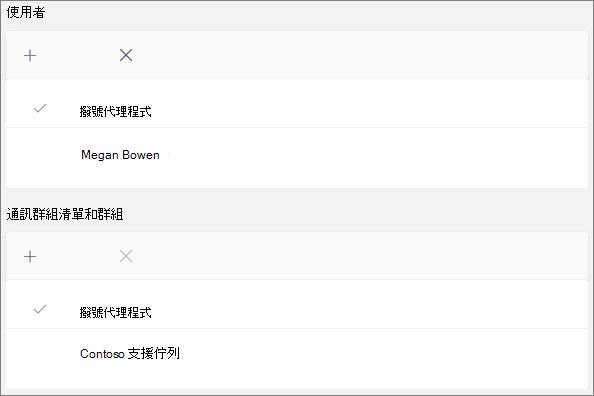
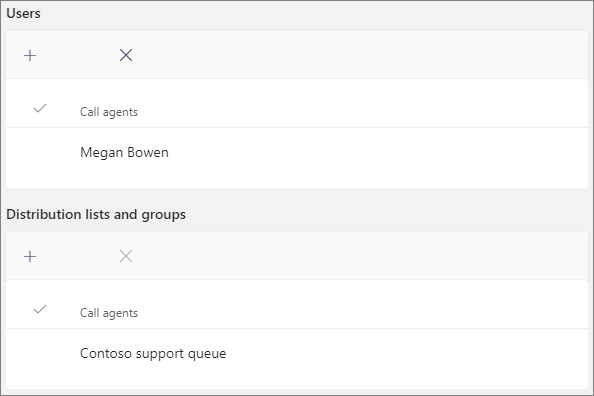
commit translated contents

diff --git a/Teams/manage-tasks-app.md b/Teams/manage-tasks-app.md
@@ -1,5 +1,5 @@
 ---
-title: 在 Microsoft 團隊中管理貴組織的任務應用程式
+title: 在 Microsoft Teams 中管理貴組織的 [工作] 應用程式
 author: cichur
 ms.author: v-cichur
 manager: serdars
@@ -11,7 +11,7 @@ searchScope:
 - Microsoft Teams
 - Microsoft Cloud for Healthcare
 audience: admin
-description: 瞭解如何管理組織中使用者的 [工作] app。
+description: 瞭解如何管理貴組織中使用者的 [工作] 應用程式。
 localization_priority: Normal
 MS.collection:
 - Teams_ITAdmin_Help
@@ -21,107 +21,107 @@ appliesto:
 - Microsoft Teams
 ms.openlocfilehash: 2cc477b9589aeebb8dcd486e7f85ca04daf6ff4d
 ms.sourcegitcommit: fdef9b52247097e5cae64f01b6b2b710c5b203cf
-ms.translationtype: MT
+ms.translationtype: HT
 ms.contentlocale: zh-TW
 ms.lasthandoff: 01/20/2021
 ms.locfileid: "49909397"
 ---
-# <a name="manage-the-tasks-app-for-your-organization-in-microsoft-teams"></a>在 Microsoft 團隊中管理貴組織的任務應用程式
+# <a name="manage-the-tasks-app-for-your-organization-in-microsoft-teams"></a>在 Microsoft Teams 中管理貴組織的 [工作] 應用程式
 
-## <a name="overview-of-tasks"></a>任務概覽
+## <a name="overview-of-tasks"></a>[工作] 概觀
 
-[工作] app 為 Microsoft 團隊帶來了一種內聚性的工作管理體驗，整合了由 [microsoft](https://todo.microsoft.com/tasks/) 提供的個別工作，以及由 Planner 提供的小組工作，集中在一個位置。 使用者可以將工作作為小組左邊的 app 存取，以及在個別團隊的頻道中作為索引標籤。 [工作] 中的 [**我** 的工作] 和 [**共用方案**] 可讓使用者查看及管理其個別及小組工作，並設定其工作優先順序。 在團隊桌面、web 和行動用戶端中都有可用的工作。 
+[工作] 應用程式為 Microsoft Teams 帶來了凝聚性的工作管理體驗，將 [Microsoft To Do](https://todo.microsoft.com/tasks/) 所啟動的個別工作以及 Planner 所啟動的小組工作整合在一個地方。 使用者可以在 Teams 左側存取 [工作] 應用程式，以及在個別小組中的頻道以索引標籤的形式存取。 **我的工作** 和 [工作] 中的 **共用計畫** 可讓使用者查看及管理他們所有的個人和小組工作，並設定工作的優先處理順序。 [工作] 應用程式可在 Teams 的桌面版、Web 和行動用戶端使用。 
 
 > [!NOTE]
-> 當我們在團隊桌面用戶端上推出工作體驗時，應用程式名稱最初會以 **Planner** 顯示給使用者。 然後，該名稱會暫時變更為工作（ **依 Planner 及待辦事項**），稍後再將其重新命名為 [ **任務**]。 在團隊行動用戶端上，使用者將永遠會看到應用程式名稱做為 [ **任務**]。 在桌面體驗推出後，行動體驗的可用性可能會有短暫的延遲。
+> 當我們推出 Teams 桌面版用戶端的 [工作] 體驗時，最初向使用者顯示的應用程式名稱為 **Planner**。 然後，會暫時變更為 **Planner 的工作和待辦事項**，之後再將其重新命名為 **工作**。 在 Teams 行動用戶端，使用者將會看到應用程式名稱一直都顯示為 **工作**。 有可用的桌面體驗之後，可能會有短暫的延遲之後才會有行動裝置體驗。
 
-   ![[團隊] 清單上工作清單視圖的螢幕擷取畫面](media/manage-tasks-app-tasks.png)
+   ![Teams 清單的工作清單視圖的螢幕擷取畫面](media/manage-tasks-app-tasks.png)
 
-針對想要簡化第一線工人工作管理的組織而言，工作也包含可讓您以不同的第一線員工的規模進行設定、發佈及追蹤任務的功能。 例如，公司和地區性領導可以建立併發布針對相關位置（例如特定零售商店）的工作清單，以及透過即時報告追蹤進度。 管理員可以將工作指派給其員工，並直接在其位置內進行活動，而第一線工作者在行動或桌面上會有其已指派任務的優先順序清單。 若要啟用 [ [任務發佈](#task-publishing)]，您必須先設定組織的小組目標階層，以定義階層中所有團隊之間相互關聯的方式。
+對於想要簡化第一線工作者工作管理的組織，[工作] 還包含可讓您在第一線員工間進行大規模鎖定、發佈及追蹤工作的功能。 例如，公司和地區性領導階層可建立並發佈針對相關地點 (例如特定零售商店) 的工作清單，並透過即時報告追蹤進度。 經理人可將工作指派給他們的員工，並指揮在其地點中的活動，而第一線工作者在行動裝置或桌上型電腦中有其指派工作的優先順序清單。 若要啟用 [工作發佈](#task-publishing)，您必須先設定組織的小組目標階層，以定義階層中所有小組間的關聯方式。
 
-## <a name="what-you-need-to-know-about-tasks"></a>任務所需注意的事項
+## <a name="what-you-need-to-know-about-tasks"></a>有關 [工作] 必須知道的事項
 
-[工作] 可做為應用程式和頻道中的索引標籤。 請記住，應用程式是由 Planner 中的任務和小組任務組成，而 tab 只會顯示小組工作。
+[工作] 能以應用程式和頻道中的索引標籤的形式供使用。 請記住，應用程式包含來自 Planner 待辦事項和小組工作的個別工作，而索引標籤只會顯示小組工作。
 
-在工作中，使用者可以取得桌面、網站和行動裝置體驗。 如果工作是在小組桌面用戶端上安裝，使用者也會在他們的小組網頁和行動用戶端上看到它。 例外狀況為來賓使用者。 請務必知道，來賓只能從小組行動用戶端存取任務作為 app。 來賓會在兩個小組的桌面和 web 用戶端上看到 [任務] 索引標籤。
+使用者可在桌上型電腦、Web 和行動裝置上使用 [工作]。 如果在 Teams 桌面版用戶端安裝 [工作]，使用者也會在其 Teams 的 Web 和行動用戶端上看到。 訪客使用者是例外。 請務必瞭解，訪客只能從 Teams 行動用戶端存取 [工作] 應用程式。 訪客將在 Teams 的桌面版和 Web 用戶端上看到 [工作] 索引標籤。
 
-[**我** 的工作] 會顯示使用者的個別工作。 [**共用方案**] 會顯示整個小組正在處理的工作，並包含任何以 [任務] 索引標籤新增為頻道的工作清單。 請注意下列事項：
+**我的工作** 會顯示使用者的個別工作。 **共用計畫** 會示整個小組正在處理的工作，並包含任何以 [工作] 索引標籤的方式新增至頻道的工作清單。 注意下列事項：
 
-- 使用者在 [工作] 應用程式中建立的工作清單也會顯示在 [為該使用者執行用戶端]。 同樣地，使用者在工作中建立的工作清單會顯示在該使用者的 [工作]**工作中。** 個別工作也是如此。
+- 使用者在 [工作] 應用程式中建立的工作清單也會顯示在該使用者的待辦事項用戶端。 同樣地，使用者在待辦事項中建立的工作清單將會顯示在該使用者的 [工作] 中的 **我的工作**。 這同樣適用於個別工作。
 
-- 新增至頻道的任何 [任務] 索引標籤也會出現在 Planner 用戶端中。 當使用者在 Planner 中建立計畫時，除非將 [工作] 或 [Planner] 應用程式新增為頻道的索引標籤，否則方案將不會顯示。 當使用者新增 [任務] 索引標籤時，他們可以建立新的清單或方案，或選擇現有的清單或方案。
+- 新增至頻道的任何 [工作] 索引標籤也會顯示在 Planner 用戶端中。 使用者在 Planner 中建立計畫時，計畫將不會顯示在 [工作] 或 [Planner] 應用程式中，除非該計畫已新增為頻道的索引標籤。 使用者新增 [工作] 索引標籤時，可以建立新的清單或計畫，或選擇現有的清單或計畫。
 
-## <a name="set-up-tasks"></a>設定任務
+## <a name="set-up-tasks"></a>設定 [工作]
 
 > [!IMPORTANT]
-> 您針對 Planner 所設定的設定與原則也會套用至 [任務]。
+> 您為 Planner 配置的設定和原則也將適用於 [工作]。
 
-### <a name="enable-or-disable-tasks-in-your-organization"></a>啟用或停用組織中的任務
+### <a name="enable-or-disable-tasks-in-your-organization"></a>啟用或停用組織中的 [工作]
 
-預設會針對貴組織中的所有團隊使用者啟用 [任務]。 您可以在 Microsoft 團隊系統管理中心的 [ [管理應用程式](manage-apps.md) ] 頁面上關閉或開啟組織階層的 app。
+您的組織中的所有 Teams 使用者預設會啟用 [工作]。 您可以在 Microsoft Teams 系統管理中心的[管理應用程式](manage-apps.md)頁面上關閉或開啟組織層級的應用程式。
 
-1. 在 Microsoft 團隊系統管理中心的左導覽中，移至 [**團隊 app**  >  **管理應用程式**]。
-2. 在應用程式清單中，執行下列其中一項操作：
+1. 在 Microsoft Teams 系統管理中心的左側瀏覽窗格中，移至 **Teams 應用程式** > **管理應用程式**。
+2. 在應用程式清單中，執行下列其中一項：
 
-    - 若要關閉貴組織的工作，請搜尋 [任務] app，選取該應用程式，然後按一下 [ **封鎖**]。
-    - 若要開啟貴組織的工作，請搜尋 [任務] app，選取該應用程式，然後按一下 [ **允許**]。
+    - 若要關閉貴組織的 [工作]，請搜尋 [工作] 應用程式，加以選取，然後按一下 **封鎖**。
+    - 若要開啟貴組織的 [工作]，請搜尋 [工作] 應用程式，加以選取，然後按一下 **允許**。
 
 > [!NOTE]
-> 如果您找不到 [任務] app，請在本文的第一張筆記中搜尋名稱。 App 可能仍在重新命名的程式中。
+> 如果您找不到 [工作] 應用程式，請在本文的第一個記事中搜尋名稱。 此應用程式仍處於重新命名的程序中。
 
-### <a name="enable-or-disable-tasks-for-specific-users-in-your-organization"></a>針對貴組織中的特定使用者啟用或停用工作
+### <a name="enable-or-disable-tasks-for-specific-users-in-your-organization"></a>啟用或停用組織中特定使用者的 [工作]
 
-若要允許或封鎖貴組織中的特定使用者使用工作，請確定您的組織已開啟 [ [管理應用程式](manage-apps.md) ] 頁面上的工作，然後建立自訂應用程式許可權原則，並將其指派給那些使用者。 若要深入瞭解，請參閱 [在團隊中管理 app 許可權原則](teams-app-permission-policies.md)。
+若要允許或封鎖貴組織中的特定使用者使用 [工作]，請確定您的組織在[管理應用程式](manage-apps.md)頁面上已開啟 [工作]，然後建立自訂應用程式權限原則，並將其指派給這些使用者。 若要深入了解，請參閱[管理 Teams 中的應用程式權限原則](teams-app-permission-policies.md)。
 
-### <a name="use-an-app-setup-policy-to-pin-tasks-to-teams"></a>使用應用程式設定原則將任務釘選到團隊
+### <a name="use-an-app-setup-policy-to-pin-tasks-to-teams"></a>使用應用程式設定原則將工作釘選到 Teams
 
-App 設定原則可讓您自訂小組，以醒目提示貴組織中的使用者最重要的 app。 您在原則中設定的應用程式會釘選在小組桌面用戶端的 [應用程式行] &mdash; 側邊，以及小組行動用戶端的最下方， &mdash; 使用者可以快速且輕鬆地存取。
+應用程式設定原則可讓您自訂 Teams，以醒目提示對貴組織中的使用者最重要的應用程式。 您在原則中設定的應用程式會釘選到應用程式列&mdash;位於 Teams 桌面版用戶端側邊列，以及位於 Teams 行動版用戶端底部&mdash;，可讓使用者快速且輕鬆地存取。
 
-若要為使用者釘選 [工作] 應用程式，您可以編輯全域 (組織範圍的預設) 原則，或建立並指派自訂應用程式設定原則。 若要深入瞭解，請參閱 [管理團隊中的 app 設定原則](teams-app-setup-policies.md)。
+若要為您的使用者釘選 [工作] 應用程式，您可以編輯全域 (全組織預設值) 原則，或建立並指定自訂應用程式設定原則。 若要深入了解，請參閱[管理 Teams 中的應用程式設定原則](teams-app-setup-policies.md)。
 
-### <a name="a-users-my-tasks-is-visible-if-the-user-is-licensed-for-exchange-online"></a>如果使用者已獲得 Exchange Online 授權，就會看到使用者的 [我的工作]
+### <a name="a-users-my-tasks-is-visible-if-the-user-is-licensed-for-exchange-online"></a>如果使用者已取得 Exchange Online 授權，則會顯示使用者的 [我的工作]
 
-如果您不希望使用者看到 **我** 的工作，您可以將其隱藏。 若要這樣做，請 [移除使用者的 Exchange Online 授權](https://docs.microsoft.com/microsoft-365/admin/manage/remove-licenses-from-users)。 請務必注意，在移除 Exchange Online 授權之後，該使用者就無法再存取其信箱了。  信箱資料會保留30天，之後將會移除資料，且無法復原，除非信箱放 [在適當位置或訴訟封存中](https://docs.microsoft.com/exchange/security-and-compliance/in-place-and-litigation-holds)。
+如果您不希望使用者看到 **我的工作**，可將其隱藏。 若要這麼做，請[移除使用者的 Exchange Online 授權](https://docs.microsoft.com/microsoft-365/admin/manage/remove-licenses-from-users)。 請務必瞭解，在移除 Exchange Online 授權之後，該使用者將無法再存取其信箱。  信箱資料會保留 30 天，之後資料將被移除且無法復原，除非信箱位於[就地保留或訴訟封存](https://docs.microsoft.com/exchange/security-and-compliance/in-place-and-litigation-holds)。
 
-我們建議您不要對資訊工作者進行此操作，但在某些情況下可能會套用這種情況，例如針對不依賴電子郵件的第一線工作人員。
+我們不會建議資訊工作者使用這種方式，但可能會發生可套用這種方式的情況，例如不依賴電子郵件的第一線工作者。
 
-## <a name="task-publishing"></a>任務發佈
+## <a name="task-publishing"></a>發佈
 
-透過 [任務發佈]，您的組織可以發佈針對特定位置的工作清單， (團隊在您的組織中) ，以定義並共用工作方案，以便在這些位置完成。
+使用 [工作發佈]，您的組織可以發佈針對組織內部特定地點 (小組) 的工作清單，以定義及共用將在這些地點完成的工作計畫。
 
-- 發佈小組中的人員（例如公司或地區性領導）可以建立工作清單，並將其發佈至特定團隊。<br>
-    ![[任務發佈] 的螢幕擷取畫面](media/manage-tasks-app-publish.png)
-- 收件者小組的管理員可以查看已發佈的工作清單，並將個別任務指派給小組成員。<br>
-    ![指派任務的螢幕擷取畫面](media/manage-tasks-app-assign.png)
-- 第一線工人有簡單的行動體驗，可查看指派給他們的工作。 他們可以附加相片，在適當時顯示其工作，並將其任務標示為已完成。
-- [發行者與管理員] 可以查看報表，以查看每個階層的工作作業及完成狀態，包括依位置 (的小組) 、工作清單及個別任務。<br>
-    ![行動裝置上指派任務的螢幕擷取畫面](media/manage-tasks-app-reporting.png)
+- 發佈小組中的人員 (例如公司或地區性領導階層) 可建立工作清單，並將其發佈給特定小組。<br>
+    ![ [工作發佈] 的螢幕擷取畫面](media/manage-tasks-app-publish.png)
+- 收件者小組的主管可查看發佈的工作清單，並將個別的工作指派給小組成員。<br>
+    ![指派工作的螢幕擷取畫面](media/manage-tasks-app-assign.png)
+- 第一線工作者可輕鬆透過行動裝置查看指派給他們的工作。 他們可以附加相片以顯示工作 (如適用)，並將其工作標示為已完成。
+- 出版商和管理者可以查看報告，以瞭解每個階層的工作指派和完成狀態，包括依地點 (小組)、工作清單和個別工作。<br>
+    ![行動裝置上指派工作的螢幕擷取畫面](media/manage-tasks-app-reporting.png)
 
-使用者在 [工作] app 的 [ **已發佈的清單** ] 索引標籤上建立、管理及發佈工作清單。 只有在您的組織 [設定團隊目標](#set-up-your-team-targeting-hierarchy) 階層，且使用者位於包含在階層中的小組時，此索引標籤才會向使用者顯示。 階層決定使用者是否可以發佈或接收工作清單，以及查看已接收清單的報表。
+使用者會在 [工作] 應用程式中的 **發佈清單** 索引標籤上建立、管理及發佈工作清單。 只有在貴組織[設定小組目標階層](#set-up-your-team-targeting-hierarchy)且使用者屬於階層所包含的小組時，才會顯示該索引標籤。 階層會決定使用者是否可以發佈或接收工作清單，以及查看已收到清單的報告。
 
 ### <a name="example-scenario"></a>範例案例
 
-以下是如何進行工作發佈的範例。
+以下是工作發佈方式的範例。
 
-Contoso 正在推出新的食物 takeout 和遞送促銷。 若要維持一致的品牌體驗，他們必須在超過300的存放位置，協調推出一致的方式執行。
+Contoso 即將推出新的食物外帶和遞送優惠。 若要維持一致的品牌體驗，他們必須在超過 300 個商店地點協調執行一致性的推出方式。
 
-行銷小組與零售通訊管理員共用促銷明細及對應的工作清單。 零售通訊管理員（可充當商店的閘道管理員）會審閱資訊、建立促銷的工作清單，然後針對每個需要由每個受影響的儲存區執行的工作單元建立任務。 完成工作清單後，她必須選取必須完成工作的商店。 在這種情況下，促銷只適用于美國擁有店內餐館的商店。 在 [工作] 中，她會根據 [儲存在店內餐館] 屬性來篩選商店清單，選取階層中的 [符合美國] 位置，然後將工作清單發佈至這些商店。
+行銷小組會和零售通訊經理分享促銷的詳細資料以及對應的工作清單。 擔負守門員功能的零售通訊經理 會審閱資訊、為促銷建立工作清單，然後針對每個受到影響的商店需要執行的每個工作單元建立工作。 工作清單完成後，需要選取必須完成工作的商店。 在此情況下，優惠僅適用於在美國擁有店內餐廳的商店。 在 [工作] 中，她會根據 [店內餐廳] 屬性來篩選商店清單，在階層中選取 [與美國匹配] 的地點，然後將工作清單發佈到這些商店。
 
-每個位置的商店管理員都會收到已發佈任務的複本，並將這些工作指派給他們的小組成員。 管理員可以使用 [任務經驗] 來瞭解其商店所需的所有工作。 他們也可以使用可用的篩選器，將焦點放在特定的工作集合上，例如 [今天到期的工作] 或特定區域中的工作。
+每個地點的商店經理都會收到一份已發佈工作的複本，並將這些工作指派給小組成員。 經理可以使用 [工作] 體驗來瞭解其商店必須完成的所有工作。 他們也可以使用可用的篩選，專注於一組特定的工作，例如 [今天必須完成的工作] 或 [特定區域的工作]。
 
-在每個市集中位置的第一線工作者現在會在行動裝置上的工作中有一個優先順序清單。 完成工作後，他們會將它標示為完成。 有些人甚至可能會選擇將相片上傳並附加至工作，以顯示他們的工作。
+每個商店地點的第一線工作者在其行動裝置上的 [工作] 中現在有一份按優先順序排列的工作。 工作完成時，會將工作標示為完成。 有些甚至可以選擇上傳相片，並將相片附加至工作，以顯示他們的工作。
 
-Contoso 總部和中級經理可以查看報告，以查看每個商店及跨商店的工作作業與完成狀態。 他們也可以向下切入特定任務，以查看不同商店中的狀態。 隨著啟動日期更接近，他們可以隨時找出任何 abnormalities，並視需要查看其小組。 此可見度可讓 Contoso 改善推出的效率，並在其商店中提供更一致的體驗。
+Contoso 總部和中級經理可以查看報告，以瞭解每個商店和商店之間工作的指派和完成狀態。 他們也可以深入特定工作，以瞭解不同商店內的狀態。 隨著啟動日期逐漸逼近，他們可以發現任何異常狀況，如有需要可與其小組商討。 這種可視性可讓 Contoso 提高推出效率，並提供商店之間更一致性的體驗。
 
 ### <a name="set-up-your-team-targeting-hierarchy"></a>設定您的團隊目標階層
 
-若要在貴組織中啟用任務發佈，您必須先設定您的團隊目標架構。CSV 檔案。 架構定義階層中的所有團隊如何彼此關聯，以及用來篩選和選取團隊的屬性。 建立架構之後，請將其上傳至團隊，將其套用到您的組織。 發佈小組的成員（例如範例案例中的零售通訊管理員），可以根據階層、屬性或兩者的組合來篩選小組，以選取應收到工作清單的相關小組，然後將工作清單發佈至這些小組。
+若要在貴組織中啟用工作發佈，您必須先以 .CSV 檔設定您的小組目標架構。 此架構可定義您的階層中所有小組彼此關聯的方式，以及用來篩選和選取小組的屬性。 建立架構之後，可將其上傳至 Teams，並套用到您的組織。 發佈小組的成員 (例如範例案例中的 [零售通訊經理]) 可依據階層、屬性或兩者的組合來篩選小組，以選取應接收工作清單的相關小組，然後將工作清單發佈給那些小組。
 
-如需如何設定您的團隊目標階層的步驟，請參閱 [設定您的團隊目標](set-up-your-team-hierarchy.md)階層。
+如需有關如何設定您的小組目標階層的步驟，請參閱 [設定您的小組目標階層](set-up-your-team-hierarchy.md)。
 
-## <a name="power-automate-and-graph-api"></a>電源自動化及圖形 API
+## <a name="power-automate-and-graph-api"></a>Power Automate 和圖形 API
 
-[工作] 可支援 Planner 的電源自動作業及圖形 Api。 若要深入了解，請參閱：
+[工作] 可支援待辦事項的 Power Automate 以及 Planner 的圖形 API。 若要深入了解，請參閱：
 
-- [Planner 工作與計畫 API 概覽](https://docs.microsoft.com/graph/planner-concept-overview)
-- [使用 Microsoft 與電源自動進行](https://support.office.com/article/using-microsoft-to-do-with-power-automate-526e8f75-217b-46e0-9e06-44780b72c295)
+- [Planner 工作和計畫 API 概觀](https://docs.microsoft.com/graph/planner-concept-overview)
+- [透過 Power Automate 使用 Microsoft To Do](https://support.office.com/article/using-microsoft-to-do-with-power-automate-526e8f75-217b-46e0-9e06-44780b72c295)

diff --git a/Teams/manage-lists-app.md b/Teams/manage-lists-app.md
@@ -1,5 +1,5 @@
 ---
-title: 管理貴組織的清單應用程式
+title: 管理貴組織的 [清單] 應用程式
 author: cichur
 ms.author: v-cichur
 ms.reviewer: anach,v-jasuk
@@ -11,7 +11,7 @@ search.appverid: MET150
 searchScope:
 - Microsoft Teams
 - Microsoft Cloud for Healthcare
-description: 瞭解如何針對貴組織中的使用者管理團隊中的 [清單] 應用程式。
+description: 瞭解如何針對貴組織中的使用者管理 Teams 中的 [清單] 應用程式。
 f1.keywords:
 - NOCSH
 localization_priority: Normal
@@ -24,101 +24,101 @@ appliesto:
 ms.custom: ''
 ms.openlocfilehash: e0fb125ede9300395e045a0c5640abd075547562
 ms.sourcegitcommit: 04eba352d9e203aa9cd1282c4f4c7158a0469678
-ms.translationtype: MT
+ms.translationtype: HT
 ms.contentlocale: zh-TW
 ms.lasthandoff: 01/23/2021
 ms.locfileid: "49944608"
 ---
-# <a name="manage-the-lists-app-for-your-organization-in-microsoft-teams"></a>在 Microsoft 團隊中管理貴組織的清單應用程式
+# <a name="manage-the-lists-app-for-your-organization-in-microsoft-teams"></a>在 Microsoft Teams 中管理貴組織的 [清單] 應用程式
 
-## <a name="overview-of-lists"></a>清單概覽
+## <a name="overview-of-lists"></a>[清單] 概觀
 
-Microsoft 團隊中的 [清單] 應用程式可協助組織中的使用者追蹤資訊、組織工作，以及管理工作流程。 使用者可以使用清單來追蹤問題、資產、常式、連絡人、庫存、事件、貸款、患者等資料，並使用可自訂的視圖、規則和通知來保持小組中的每個人都保持同步。
+Microsoft Teams 中的 [清單] 應用程式可協助您的組織中的使用者追蹤資訊、整理工作及管理工作流程。 使用 [清單]，使用者可以使用可自訂的視圖、規則和警示來追蹤相關資料，例如問題、資產、例行會議、連絡人、庫存、事件、貸款、病人等，以保持團隊中的每個人同步。
 
-在團隊中，使用者會將清單作為頻道中的索引標籤存取。 按一下 **+** 以開啟索引標籤圖庫，然後新增 [清單] 應用程式索引標籤實例至頻道，即可開始使用。
+在 Teams 中，使用者將 [清單] 視為頻道中的索引標籤加以存取。 按一下 **+** 以開啟索引標籤庫，並將新 [清單] 應用程式索引標籤實例新增至頻道，以開始使用。
 
 ![索引標籤庫中的 [清單] 應用程式](media/lists-tab.png)
 
-使用者可以從相同團隊或其他人有權存取的 SharePoint 網站建立新清單或釘選現有清單。 您可以從內建的範本、根據現有清單的結構或從 Excel 活頁簿匯入資料，從頭開始建立新的清單。 [清單] app 可在小組桌面、web 和行動用戶端中取得。
+使用者可以建立新清單，或從同一小組內或他們有存取權的不同 SharePoint 網站釘選現有清單。 可根據現有清單的結構，或從 Excel 活頁簿匯入資料，以從頭、從內建範本來建立新清單。 [清單] 應用程式可在 Teams 的桌上型電腦、Web 和行動用戶端使用。
 
 ![如何在 [清單] 應用程式中建立清單](media/lists-create-list.png)
 
-## <a name="templates"></a>模版
+## <a name="templates"></a>範本
 
-清單中的範本是針對使用者的常見資訊追蹤案例量身定制的。 每個範本都有一個預先定義的清單結構、表單版面配置及格式設定選項（在 [清單] 視圖和 [詳細資料] 視圖層級）中，以協助使用者快速入門。 選取範本之後，使用者就會預覽清單的外觀，以及一些範例資料。 以下範例說明貴組織中的小組如何在清單中使用預先定義的範本：
+[清單] 中的範本是針對使用者的常見資訊追蹤案例而量身打造的。 每個範本都有一組預先定義的清單結構、表單版面配置和格式設定選項 (清單視圖和詳細資料視圖層級)，可協助使用者快速開始使用。 選取範本之後，使用者會看到清單外觀的預覽，以及一些範例資料。 下列範例說明貴組織中的小組可如何使用 [清單] 中預先定義的範本：
 
-- 使用 [問題追蹤器] 範本追蹤問題並讓他們關閉。
-- 使用 [事件路線] 範本來整理您的所有活動詳細資料。
-- 使用患者範本，在您的醫療保健組織中記錄患者在健康小組中的需求和狀態，以監控及協調護理。
-- 使用貸款範本追蹤貸款申請的狀態。
+- 使用 [問題追蹤器] 範本來追蹤問題並直到解決問題。
+- 使用 [活動時間表] 範本來整理您所有的活動詳細資料。
+- 您可以使用病人範本來記錄患者的需求和狀態，以便讓醫療保健組織中的健康小組監視和協調照護。
+- 使用貸款範本來追蹤貸款申請的狀態。
 
 ## <a name="example-scenario"></a>範例案例
 
-當地的郵局負責在他們的地區中排序並傳送郵件。 每早上，郵局都有一個小組 huddle 來審查日常目標、共用公告，並討論已知的事件。
+本地郵局負責在其地區中排序和傳送郵件。 每天早上，郵局都會有小組聚會來檢閱每日目標、分享公告，並討論已知的事件。
 
-Huddle 之後，郵件載體會拾取其郵件，並開始傳送傳送路線。 事件可能會沿著路線進行，例如交通意外、狗相關的問題，或社交 unrest 拒付。 當郵件運營商遇到事件時，他們會在行動裝置上使用團隊來記錄事件詳細資料，並在團隊頻道清單中追蹤這些活動。 小組中的每個人（包括欄位中的郵件載體）都可以看到這項資訊並保持及時瞭解。
+聚會之後，郵件運送人就會撿拾自己的郵件並啟動其遞送路線。 在遞送路線中可能會發生事件，例如車輛事故、狗相關的問題或社會動亂的抗議。 當郵件運送人遇到事件時，他們會利用其行動裝置上的 Teams 來記錄事件詳細資料，並透過小組頻道的清單追蹤。 小組中的每個人 (包括在外面的郵件運送人) 都能看到這項資訊並取得最新訊息。
 
-在移至團隊之前，郵件運營商必須回到郵局，才能完成硬拷貝表單，以報告在 Excel 試算表中輸入的事件。 團隊首先為郵件運營商提供行動裝置，讓他們可以在其中使用清單來報告其在欄位中的事件、與小組成員共用事件詳細資料、在頻道中取得相關的交談，以及將事件放到解決方案中。
+移至 Teams 之前，郵件運送人必須回到郵局，完成紙本表單，以報告在 Excel 試算表中輸入的事件。 Teams 先提供郵件運送人一個行動裝置，讓他們體會可以在何處使用 [清單] 來報告實地發生的事件、與小組成員分享事件詳細資料、在頻道中進行討論以及取得問題的解決方法。
 
-## <a name="what-you-need-to-know-about-lists"></a>清單所需注意的事項
+## <a name="what-you-need-to-know-about-lists"></a>必須知道的有關 [清單] 的事情
 
-### <a name="lists-is-available-in-every-team-and-channel"></a>清單在每個團隊和頻道中都有提供
+### <a name="lists-is-available-in-every-team-and-channel"></a>在每個小組和頻道中都可取得 [清單]
 
-清單是針對所有團隊使用者預先安裝的，可直接在每個團隊和頻道的索引標籤庫中取得。 這表示使用者不需要移至 [小組 app store] 就能安裝它。
+所有 Teams 使用者都會有預先安裝的 [清單]，且可直接在每個小組和頻道的索引標籤庫中取得。 這表示使用者不需要移至 Teams 應用程式市集就能安裝。
 
-### <a name="lists-and-sharepoint"></a>清單和 SharePoint
+### <a name="lists-and-sharepoint"></a>[清單] 和 SharePoint
 
-清單資料會儲存在 SharePoint Online 小組網站中。 若要深入瞭解 SharePoint Online 與團隊互動的方式，請參閱 [Sharepoint online 與商務用 OneDrive 與團隊互動的方式](SharePoint-OneDrive-interact.md)。
+[清單] 資料會儲存在 SharePoint Online 小組網站中。 如需 SharePoint Online 與 Teams 如何互動的詳細資訊，請參閱 [Sharepoint Online 和商務用 OneDrive 如何與 Teams 互動](SharePoint-OneDrive-interact.md)。
 
-在 SharePoint 中設定的許可權會套用至 [清單] 應用程式中建立的清單。 根據預設，清單會繼承其所屬網站的許可權。 這些許可權會控制使用者可以執行的動作類型，例如是否可以建立或編輯清單。 若要深入瞭解，請參閱 [sharepoint 中的許可權等級](https://docs.microsoft.com/sharepoint/understanding-permission-levels) ，以及 [sharepoint Server 中的使用者許可權和許可權等級](https://docs.microsoft.com/sharepoint/sites/user-permissions-and-permission-levels)。
+在 SharePoint 中設定的權限會套用至 [清單] 應用程式中建立的清單。 根據預設，清單會繼承其所屬網站的權限。 這些權限會掌控使用者可以執行的動作類型，例如是否可建立或編輯清單。 若要深入瞭解，請參閱 [SharePoint 的權限等級](https://docs.microsoft.com/sharepoint/understanding-permission-levels)以及 [SharePoint Server 中的使用者權限和權限等級](https://docs.microsoft.com/sharepoint/sites/user-permissions-and-permission-levels)。
 
-在某些情況下，您可能會想要限制使用者可以在清單中執行的動作。 例如，小組中的人員會編輯清單視圖，這會針對所有小組成員進行變更，而您想要只允許團隊擁有者或特定小組成員編輯清單視圖。 若要深入瞭解，請參閱 [自訂 SharePoint 清單或文件庫的許可權](https://support.microsoft.com/office/customize-permissions-for-a-sharepoint-list-or-library-02d770f3-59eb-4910-a608-5f84cc297782#ID0EAACAAA=Online,_2019,_2016,_2013)。
+在某些情況下，您可能會想限制使用者可在清單中執行的動作。 例如，小組中的某人編輯清單視圖，使得所有小組成員的視圖都跟著改變，而您只想讓小組擁有者或特定小組成員可以編輯清單視圖。 若要深入瞭解，請參閱[自訂 SharePoint 清單或文件庫的權限](https://support.microsoft.com/office/customize-permissions-for-a-sharepoint-list-or-library-02d770f3-59eb-4910-a608-5f84cc297782#ID0EAACAAA=Online,_2019,_2016,_2013)。
 
 > [!NOTE]
-> 此時，小組中的擁有者和成員許可權不會以任何方式連結至小組網站中的許可權，以控制清單或清單應用程式的行為。 不過，根據客戶的意見反應和使用量，我們會考慮未來的產品反覆運算。  
+> 此時，小組中的擁有者和成員的權限不會以任何方式連結到小組網站中掌控清單行為或 [清單] 應用程式的權限。 不過，根據客戶的意見反應和使用狀況，我們會在產品的未來反覆項目中將此考慮在內。  
 
-### <a name="limitations"></a>有限
+### <a name="limitations"></a>限制
 
-透過清單，使用者可以取得桌面、網站和行動裝置體驗。 請務必知道，使用者無法使用小組行動用戶端上的清單來建立新的清單或釘選現有清單。 若要查看或編輯小組行動用戶端上的清單，必須先使用小組桌面或 web 用戶端上的清單來建立或新增清單。
+使用者可使用 [清單] 獲得桌上型電腦、Web 和行動裝置的體驗。 請務必瞭解，使用者無法使用 Teams 行動用戶端的 [清單] 建立新清單，或釘選現有清單。 若要在 Teams 行動用戶端查看或編輯清單，必須先使用 Teams 桌面版或 Web 用戶端上的清單建立或新增清單。
 
-來賓無法建立或刪除清單。 他們可以在現有清單中新增清單專案、開始建立清單專案的新交談，以及回復清單專案的現有交談。
+訪客無法建立或刪除清單。 他們可以將清單項目新增至現有清單、開始新的清單項目交談，以及回覆有關清單項目的現有交談。
 
-### <a name="lists-and-the-sharepoint-app"></a>清單和 SharePoint 應用程式
+### <a name="lists-and-the-sharepoint-app"></a>[清單] 和 SharePoint 應用程式
 
-如果貴組織中的使用者使用 SharePoint 應用程式建立清單，這些清單將會自動移至清單，而不需要使用者進行任何動作。 若要在小組中取得最佳最豐富的清單整合體驗，請使用清單 app 並釘選現有清單。
+如果您的組織中的使用者使用 SharePoint 應用程式建立清單，這些清單將會自動移至清單應用程式，而不需要使用者執行任何動作。 若要在 Teams 中取得最豐富的清單整合體驗，請使用 [清單] 應用程式並釘選現有清單。
 
-## <a name="set-up-lists"></a>設定清單
+## <a name="set-up-lists"></a>設定 [清單]
 
-### <a name="enable-or-disable-lists-in-your-organization"></a>啟用或停用貴組織中的清單
+### <a name="enable-or-disable-lists-in-your-organization"></a>啟用或停用組織中的 [清單]
 
-預設會針對貴組織中的所有團隊使用者啟用清單。 您可以在 Microsoft 團隊系統管理中心的 [ [管理應用程式](manage-apps.md) ] 頁面上關閉或開啟組織階層的 app。
+您的組織中的所有 Teams 使用者預設會啟用 [清單]。 您可以在 Microsoft Teams 系統管理中心的[管理應用程式](manage-apps.md)頁面上關閉或開啟組織層級的應用程式。
 
-1. 在 Microsoft 團隊系統管理中心的左導覽中，移至 [**團隊 app**  >  **管理應用程式**]。
-2. 執行下列其中一項動作：
+1. 在 Microsoft Teams 系統管理中心的左側瀏覽窗格中，移至 **Teams 應用程式** > **管理應用程式**。
+2. 執行下列其中一項：
 
-    - 若要關閉貴組織的清單，請搜尋 [清單] 應用程式，選取它，然後按一下 [ **封鎖**]。
-    - 若要開啟貴組織的清單，請搜尋 [清單] 應用程式，選取它，然後按一下 [ **允許**]。
+    - 若要關閉貴組織的 [清單]，請搜尋 [清單] 應用程式，加以選取，然後按一下 **封鎖**。
+    - 若要開啟貴組織的 [清單]，請搜尋 [清單] 應用程式，加以選取，然後按一下 **允許**。
 
-### <a name="enable-or-disable-lists-for-specific-users-in-your-organization"></a>啟用或停用貴組織中特定使用者的清單
+### <a name="enable-or-disable-lists-for-specific-users-in-your-organization"></a>啟用或停用組織中特定使用者的 [清單]
 
-若要允許或封鎖貴組織中的特定使用者使用清單，請確定您的組織已開啟 [ [管理應用程式](manage-apps.md) ] 頁面上的清單，然後建立自訂應用程式許可權原則，並將其指派給那些使用者。 若要深入瞭解，請參閱 [在團隊中管理 app 許可權原則](teams-app-permission-policies.md)。
+若要允許或封鎖貴組織中的特定使用者使用 [清單]，請確定您的組織在[管理應用程式](manage-apps.md)頁面上已開啟 [清單]，然後建立自訂應用程式權限原則，並將其指派給這些使用者。 若要深入了解，請參閱[管理 Teams 中的應用程式權限原則](teams-app-permission-policies.md)。
 
-## <a name="search-the-audit-log-for-list-events"></a>在審核記錄中搜尋清單事件
+## <a name="search-the-audit-log-for-list-events"></a>搜尋清單活動的稽核記錄檔
 
-清單是以企業級審核啟用，因此您可以在安全性 & 合規性中心的 [審核] 記錄中搜尋清單及清單專案事件。 若要深入瞭解，請參閱 [在安全性 & 合規性中心搜尋審核記錄](https://docs.microsoft.com/microsoft-365/compliance/search-the-audit-log-in-security-and-compliance)。
+您可以使用企業層級稽核啟用清單，以便在安全性與合規性中心的稽核記錄檔中搜尋清單和清單項目事件。 若要深入了解，請參閱[搜尋安全性與合規性中心的稽核記錄檔](https://docs.microsoft.com/microsoft-365/compliance/search-the-audit-log-in-security-and-compliance)。
 
-如需小組中與 [清單] 應用程式相關的審核事件清單，請參閱 [SharePoint 清單活動](https://docs.microsoft.com/microsoft-365/compliance/search-the-audit-log-in-security-and-compliance#sharepoint-list-activities)。
+如需和 Teams 中 [清單] 應用程式相關的稽核活動清單，請參閱 [SharePoint 清單活動](https://docs.microsoft.com/microsoft-365/compliance/search-the-audit-log-in-security-and-compliance#sharepoint-list-activities)。
 
-在您可以搜尋審核記錄之前，您必須先在 [安全性 & 合規性中心](https://protection.office.com)開啟審核。 請記住，審核資料只能從您開啟審核的位置取得。
+在您可以搜尋稽核記錄檔之前，您必須先在[安全性與合規性中心](https://protection.office.com)中開啟稽核。 請記住，只有當您開啟稽核時，才能使用稽核資料。
 
-## <a name="power-automate-power-apps-and-graph-api"></a>電源自動化、Power App 及圖形 API
+## <a name="power-automate-power-apps-and-graph-api"></a>Power Automate、Power Apps 和圖形 API
 
-清單支援工作流程的 [電源自動](https://docs.microsoft.com/power-automate/flow-types) 作業及清單表單的 [power app](https://docs.microsoft.com/powerapps/maker/canvas-apps/customize-list-form) 。 開發人員可以使用 [清單 API](https://docs.microsoft.com/sharepoint/dev/sp-add-ins/working-with-lists-and-list-items-with-rest) ，將清單資料作為來源，透過 Microsoft Graph 連線。
+[清單] 支援工作流程的 [Power Automate](https://docs.microsoft.com/power-automate/flow-types)以及清單表單 [Power Apps](https://docs.microsoft.com/powerapps/maker/canvas-apps/customize-list-form) 。 開發人員可利用[清單 API](https://docs.microsoft.com/sharepoint/dev/sp-add-ins/working-with-lists-and-list-items-with-rest) ，透過 Microsoft Graph 將清單資料連線為來源。
 
-## <a name="give-feedback-or-report-an-issue"></a>提供意見反應或報告問題
+## <a name="give-feedback-or-report-an-issue"></a>提供意見反應或回報問題
   
-若要向我們傳送意見反應或報告問題， **請按一下 [** 團隊] 左側導覽底部附近的 [說明]，然後選取 [ **報告問題**]。 選取 [ **清單**]，然後輸入您的意見反應或您所遇到之問題的詳細資料。
+若要傳送意見反應或報告問題，請按一下 Teams 左邊瀏覽列底部附近的 **說明** ，然後選取 **報告問題**。 選取 **清單**，然後輸入您的意見反應或您所遇到問題的詳細資料。
 
 ## <a name="related-topics"></a>相關主題
 
-- [清單說明文件](https://support.microsoft.com/office/apps-and-services-cc1fba57-9900-4634-8306-2360a40c665b#PickTab=Lists)
+- [[清單] 說明文件](https://support.microsoft.com/office/apps-and-services-cc1fba57-9900-4634-8306-2360a40c665b#PickTab=Lists)
